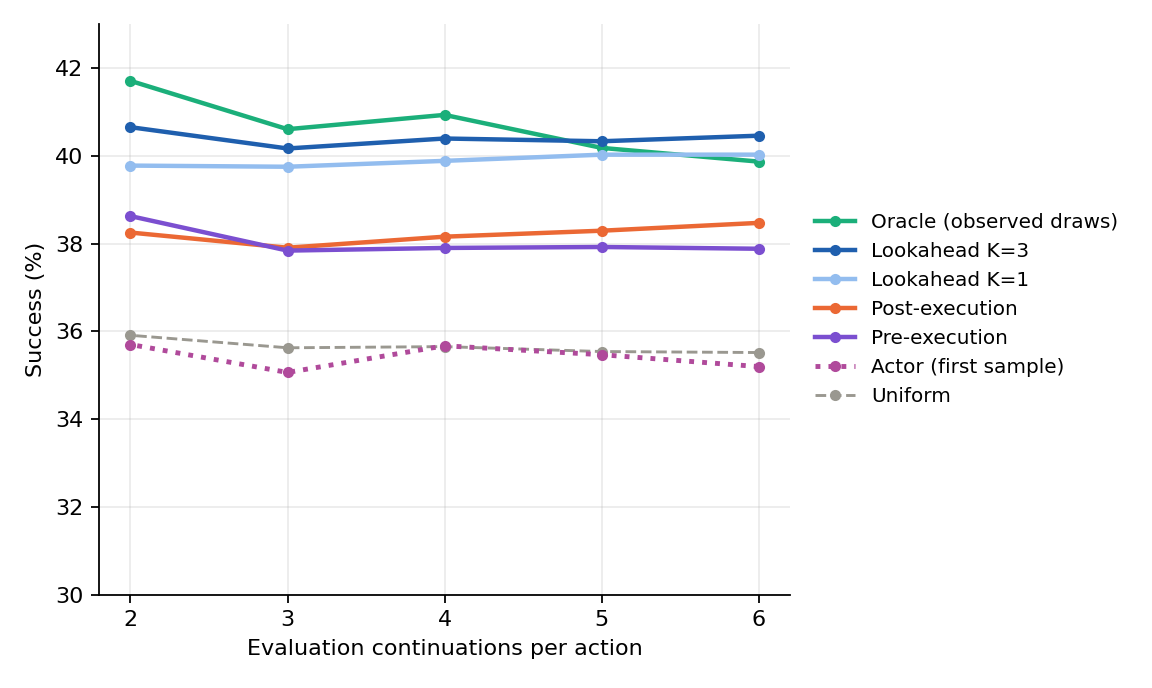
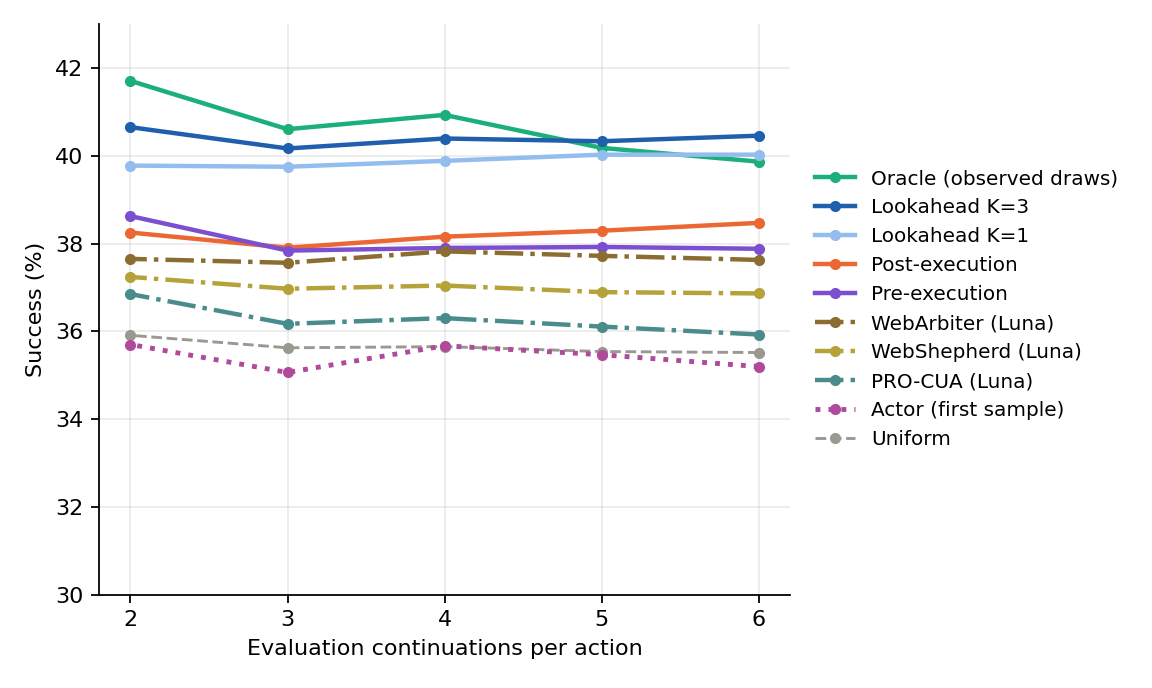
Lookahead draw-split figure on the main set: add the prior-work judge formulations

Changed region(s): [[0.0938, 0.2442, 0.9688, 0.641], [0.2188, 0.4578, 0.6562, 0.4884]]

diff --git a/openwebrl/docs/arm_results/rl_integration/lookahead-draw-split-20261013/curve_main.py b/openwebrl/docs/arm_results/rl_integration/lookahead-draw-split-20261013/curve_main.py
@@ -48,6 +48,12 @@ for name, root in RUNS.items():
         for j in json.loads(f.read_text()):
             if j["valid"]:
                 picks[name][j["state"]].append(j["candidate"])
+# prior-work judge formulations (formulation-faithful, GPT-6 Luna): their pick sets, ties split
+for name, m in (("WebArbiter formulation", "arbiter"), ("WebShepherd formulation", "shepherd"), ("PRO-CUA formulation", "procua")):
+    picks[name] = {}
+    for root in (B / "prm-formulations-20261016", NW / "prm-formulations"):
+        for f in (root / "results" / m).glob("*.json"):
+            r = read(f); picks[name][r["state"]] = r["picks"]
 states = sorted(keep & set.intersection(*(set(v) for v in picks.values())))
 
 
@@ -64,7 +70,7 @@ for n in range(2, 7):
         if None in fit or None in hold:
             continue
         fit, hold = np.array(fit), np.array(hold)
-        per[s] = {k: float(np.mean([hold[c] for c in picks[k][s]])) for k in RUNS}
+        per[s] = {k: float(np.mean([hold[c] for c in picks[k][s]])) for k in picks}
         per[s] |= {"Uniform": float(hold.mean()), "Actor first sample": float(hold[0]), "Best on observed draws": float(hold[fit == fit.max()].mean())}
     st = sorted(per); g = [task[s] for s in st]
     pooled = {"states": len(st), "task_groups": len(set(g))}

diff --git a/openwebrl/docs/arm_results/rl_integration/lookahead-draw-split-20261013/style.py b/openwebrl/docs/arm_results/rl_integration/lookahead-draw-split-20261013/style.py
@@ -6,6 +6,9 @@ STYLE = {  # key in curve.json -> (legend label, colour, line style)
     "Lookahead K=1": ("Lookahead K=1", "#93bdef", "-"),
     "Immediate result": ("Post-execution", "#eb6834", "-"),
     "Before execution": ("Pre-execution", "#7b4fd0", "-"),
+    "WebArbiter formulation": ("WebArbiter (Luna)", "#8c6d31", "-."),
+    "WebShepherd formulation": ("WebShepherd (Luna)", "#b5a33a", "-."),
+    "PRO-CUA formulation": ("PRO-CUA (Luna)", "#4a8c8c", "-."),
     "Actor first sample": ("Actor (first sample)", "#b04a9b", ":"),
     "Uniform": ("Uniform", "#9a9890", "--"),
 }

diff --git a/openwebrl/docs/ARM_FORMULATIONS.md b/openwebrl/docs/ARM_FORMULATIONS.md
@@ -479,7 +479,7 @@ Every condition is the same GPT-6 Luna request (`gpt-6-luna`, high reasoning eff
 
 ![Success vs evaluation continuations on the main set](arm_results/rl_integration/lookahead-draw-split-20261013/lookahead_draw_split_piotr_absolute_lines_valid_only_main.png)
 
-*Main set, valid draws only, screenshot-only no-history teachers. x = continuations per action used for evaluation; the oracle picks on the other 8 − x draws, and teachers see only draw 0. [Version with paired bands](arm_results/rl_integration/lookahead-draw-split-20261013/lookahead_draw_split_piotr_absolute_valid_only_main.png), [JSON](arm_results/rl_integration/lookahead-draw-split-20261013/curve_piotr_main.json).*
+*Main set, valid draws only, screenshot-only no-history teachers; dash-dot lines are the WebArbiter, WebShepherd and PRO-CUA judge formulations (GPT-6 Luna). x = continuations per action used for evaluation; the oracle picks on the other 8 − x draws, and teachers see only draw 0. [Version with paired bands](arm_results/rl_integration/lookahead-draw-split-20261013/lookahead_draw_split_piotr_absolute_valid_only_main.png), [JSON](arm_results/rl_integration/lookahead-draw-split-20261013/curve_piotr_main.json).*
 
 - *All states: 1,171 labelled (736 grid + 435 new `fast1k`), all from OpenWebRL-4B-SFT; 103 lack a valid held-out draw for some action and 31 are completely blank pages. Views: 2+ different effective actions (type + target); without the 76 browser error pages; arXiv (a third of the main set) downsampled round-robin across its tasks to 10%. The Luna judge re-judged every judged held-out continuation (no state lacks a verdict). Task-clustered intervals. [JSON](arm_results/rl_integration/lookahead-full-set-20261017.json), [code](arm_results/rl_integration/lookahead-full-set-20261017.py).*
 
